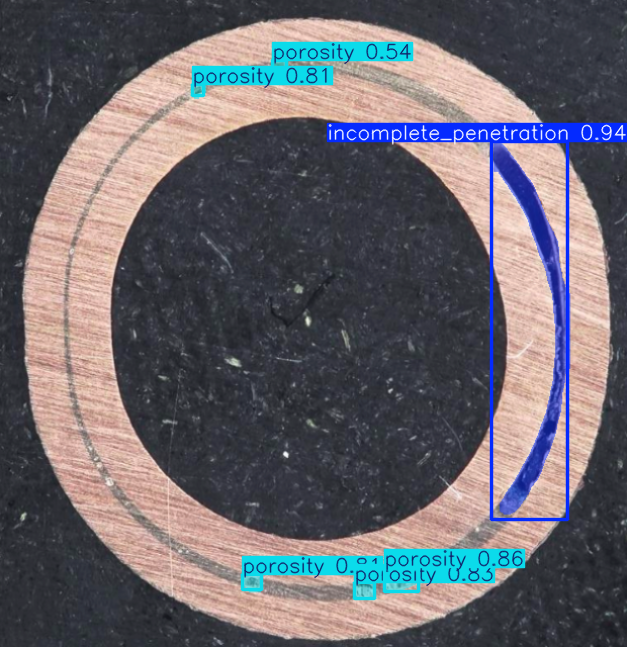
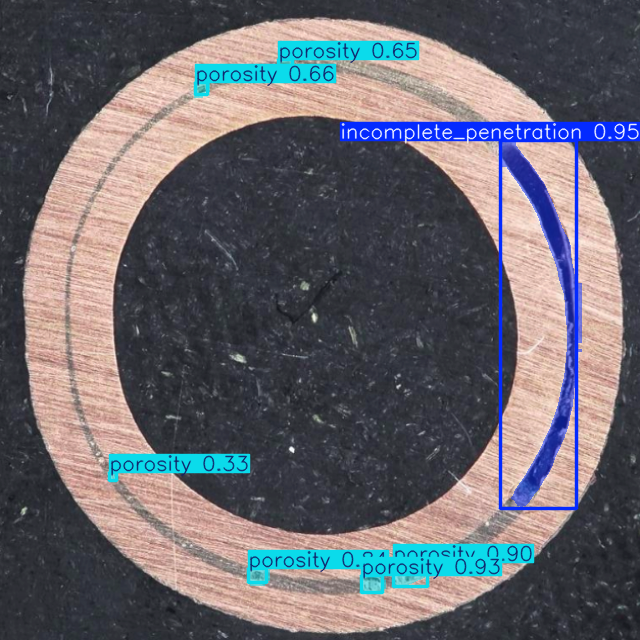
adjust image resoultion

diff --git a/defect_analyzer.py b/defect_analyzer.py
@@ -25,67 +25,152 @@ SUMMARY_CSV_PATH = os.path.join(OUTPUT_FOLDER_PATH, 'defect_summary.csv')
 # Example: If the 1000 µm bar is 500 pixels long, PIXELS_PER_MICRON = 500 / 1000 = 0.5
 PIXELS_PER_MICRON = 0.5 # <--- REPLACE WITH YOUR VALUE
 
+# --- IMAGE PROCESSING PARAMETERS (Configurable) ---
+# Parameters for Hough Circle Transform to find the pipes.
+# NOTE: These parameters might need adjustment if your original images vary significantly in size
+# or if resizing affects circle detection.
+HOUGH_DP = 1.5          # Inverse ratio of accumulator resolution.
+HOUGH_MIN_DIST = 400    # Minimum distance between the centers of detected circles.
+HOUGH_PARAM1 = 100      # Upper threshold for the internal Canny edge detector.
+HOUGH_PARAM2 = 80       # Threshold for center detection.
+HOUGH_MIN_RADIUS = 200  # Minimum circle radius to be detected.
+HOUGH_MAX_RADIUS = 600  # Maximum circle radius to be detected.
+
+# --- PREPROCESSING CONFIGURATION ---
+# Target dimensions for image preprocessing before feeding to the model.
+TARGET_IMAGE_DIM = (640, 640) # Width, Height
+
+# --- MODEL PREDICTION CONFIDENCE THRESHOLD ---
+# Only predictions with a confidence score above this threshold will be considered.
+CONFIDENCE_THRESHOLD = 0.20 # 25% confidence level
 
 def analyze_defects(model, image_path, pixels_per_micron):
     """
     Processes a single image to find defects, calculate metrics, and return structured data.
-    This version uses ONLY the YOLO model for classification.
+    This version includes image preprocessing (resizing to TARGET_IMAGE_DIM) before
+    model prediction and adjusts metric calculations to account for scaling.
+    Applies a confidence threshold to filter model predictions.
     """
+    img_bgr = cv2.imread(image_path)
+    if img_bgr is None:
+        print(f"Error: Could not load image from {image_path}")
+        return [], None
+
+    # Store original dimensions for later use (to scale metrics back)
+    original_height, original_width = img_bgr.shape[:2]
     image_id = os.path.basename(image_path)
 
-    try:
-        # Run YOLO inference
-        results = model(image_path, verbose=False)
-        single_result = results[0]
+    # --- Preprocess image for model prediction ---
+    # Resize the image to the target dimensions (640x640)
+    # Using INTER_AREA for downsampling, INTER_LINEAR or INTER_CUBIC for upsampling
+    resized_img_bgr = cv2.resize(img_bgr, TARGET_IMAGE_DIM, interpolation=cv2.INTER_AREA)
+
+    # Convert the resized image to grayscale for Hough Circle Transform
+    resized_img_gray = cv2.cvtColor(resized_img_bgr, cv2.COLOR_BGR2GRAY)
+
+    # --- Step 4: Nominal joint detection (using resized_img_gray) ---
+    # Apply a median blur to reduce noise for circle detection.
+    blurred_gray = cv2.medianBlur(resized_img_gray, 5)
+    circles = cv2.HoughCircles(
+        blurred_gray, cv2.HOUGH_GRADIENT,
+        dp=HOUGH_DP, minDist=HOUGH_MIN_DIST,
+        param1=HOUGH_PARAM1, param2=HOUGH_PARAM2,
+        minRadius=HOUGH_MIN_RADIUS, maxRadius=HOUGH_MAX_RADIUS
+    )
+
+    # Store circle data. Circles are detected in the resized image's coordinate system.
+    inner_circle, outer_circle = None, None
+    if circles is not None and len(circles[0]) >= 2:
+        # Sort circles by radius to identify inner and outer
+        sorted_circles = sorted(circles[0, :], key=lambda x: x[2])
+        inner_circle = sorted_circles[0]
+        outer_circle = sorted_circles[1]
+    
+    # Run YOLO inference on the PREPROCESSED (resized) image (NumPy array)
+    results = model(resized_img_bgr, verbose=False)
+    single_result = results[0]
+    
+    # Get the overlay image with color-coded contours from the model.
+    # This overlay image will be generated based on the 640x640 dimensions.
+    overlay_image = single_result.plot()
+
+    defect_data = []
+
+    # Check if there are any detected masks or boxes
+    if single_result.masks is None or single_result.boxes is None:
+        return [], overlay_image
+
+    # --- Defect Labelling and Metric Calculation ---
+    # Iterate through detections, filtering by confidence threshold
+    for i in range(len(single_result.masks)):
+        mask = single_result.masks[i]
+        box = single_result.boxes[i]
         
-        # Get the overlay image with color-coded contours from the model.
-        overlay_image = single_result.plot()
+        # Apply confidence threshold
+        if box.conf is not None and box.conf.item() < CONFIDENCE_THRESHOLD:
+            continue # Skip this detection if confidence is too low
 
-        defect_data = []
+        # Get YOLO's classification
+        yolo_class_name = single_result.names[int(box.cls)]
+        
+        # --- Calculate Metrics ---
+        # The mask data is already in the dimensions of the preprocessed image (640x640)
+        mask_data = mask.data[0].cpu().numpy().astype(np.uint8)
 
-        # Check if there are any detected masks
-        if single_result.masks is None:
-            return [], overlay_image
+        # Calculate Area (on the 640x640 mask)
+        area_pixels_resized = np.sum(mask_data)
+        
+        # Scale factor for area: (original_width/target_width) * (original_height/target_height)
+        width_scale_factor = float(original_width) / TARGET_IMAGE_DIM[0]
+        height_scale_factor = float(original_height) / TARGET_IMAGE_DIM[1]
+        
+        # Area in original image pixel scale
+        area_pixels_original_scale = area_pixels_resized * width_scale_factor * height_scale_factor
+        area_microns_sq = area_pixels_original_scale / (pixels_per_micron ** 2)
 
-        # --- Defect Labelling and Metric Calculation ---
-        for i in range(len(single_result.masks)):
-            mask = single_result.masks[i]
-            box = single_result.boxes[i]
+        # Calculate Aspect Ratio (AR) from fitted ellipse. AR is a ratio, so it's scale-invariant.
+        contours, _ = cv2.findContours(mask_data, cv2.RETR_EXTERNAL, cv2.CHAIN_APPROX_SIMPLE)
+        aspect_ratio = 1.0 # Default AR for small/non-fittable contours
+        if contours and len(contours[0]) >= 5: # Need at least 5 points to fit an ellipse
+            ellipse = cv2.fitEllipse(contours[0])
+            (w, h) = ellipse[1]
+            aspect_ratio = max(w, h) / min(w,h) if min(w,h) > 0 else 1.0
+
+        # Centroid and Distance from circles
+        # Centroid is in the resized image's coordinate system
+        dist_from_inner_microns = -1.0
+        if contours:
+            M = cv2.moments(contours[0])
+            if M["m00"] > 0:
+                cX_resized = int(M["m10"] / M["m00"])
+                cY_resized = int(M["m01"] / M["m00"])
+                centroid_resized = (cX_resized, cY_resized)
+
+                # Calculate distance to inner circle if found (both are in resized scale)
+                if inner_circle is not None:
+                    circle_center_resized = (int(inner_circle[0]), int(inner_circle[1]))
+                    # Distance is from centroid to the circle's perimeter in resized pixels
+                    dist_pixels_resized = abs(np.linalg.norm(np.array(centroid_resized) - np.array(circle_center_resized)) - inner_circle[2])
+                    
+                    # Scale this distance back to original image pixel scale
+                    # Use an average scale factor for distance to account for potential non-uniform scaling
+                    avg_scale_factor = (width_scale_factor + height_scale_factor) / 2
+                    dist_pixels_original_scale = dist_pixels_resized * avg_scale_factor
+
+                    dist_from_inner_microns = dist_pixels_original_scale / pixels_per_micron
+
+        # --- CSV row for every defect ---
+        defect_data.append({
+            "Image ID": image_id,
+            "Defect Area (µm²)": round(area_microns_sq, 2),
+            "Aspect Ratio (AR)": round(aspect_ratio, 2),
+            "Distance from Inner Circle (µm)": round(dist_from_inner_microns, 2),
+            "Defect Classification": yolo_class_name,
+            "Confidence": round(box.conf.item(), 4) # Add confidence to the output
+        })
             
-            # Get YOLO's classification
-            yolo_class_name = single_result.names[int(box.cls)]
-            
-            # --- Calculate Metrics ---
-            mask_data = mask.data[0].cpu().numpy().astype(np.uint8)
+    return defect_data, overlay_image
 
-            # Calculate Area 
-            area_pixels = np.sum(mask_data)
-            area_microns_sq = area_pixels / (pixels_per_micron ** 2)
-
-            # Calculate Aspect Ratio (AR) from fitted ellipse 
-            contours, _ = cv2.findContours(mask_data, cv2.RETR_EXTERNAL, cv2.CHAIN_APPROX_SIMPLE)
-            aspect_ratio = 1.0 # Default AR for small/non-fittable contours
-            if contours and len(contours[0]) >= 5: # Need at least 5 points to fit an ellipse
-                ellipse = cv2.fitEllipse(contours[0])
-                (w, h) = ellipse[1]
-                aspect_ratio = max(w, h) / min(w, h) if min(w,h) > 0 else 1.0
-
-            # --- CSV row for every defect  ---
-            # This dictionary now contains the simplified data.
-            defect_data.append({
-                "Image ID": image_id,
-                "Defect Area (µm²)": round(area_microns_sq, 2),
-                "Aspect Ratio (AR)": round(aspect_ratio, 2),
-                "Defect Classification": yolo_class_name,
-            })
-            
-        return defect_data, overlay_image
-    except Exception as e:
-        print(f"Error processing image {image_id}: {e}")
-        # Return empty data and a dummy image if an error occurs
-        # A black image or original image can be returned if desired, for now, a blank numpy array
-        dummy_image = np.zeros((100, 100, 3), dtype=np.uint8) 
-        return [], dummy_image
 
 def update_summary_csv(new_defects_df):
     """
@@ -116,6 +201,7 @@ def update_summary_csv(new_defects_df):
     # Prepare file header with summary data 
     report_header = "# Defect Summary Report\n"
     report_header += f"# Last Updated: {pd.Timestamp.now().strftime('%Y-%m-%d %H:%M:%S')}\n"
+    report_header += f"# Minimum Prediction Confidence Threshold: {CONFIDENCE_THRESHOLD * 100:.0f}%\n" # Add threshold
     report_header += "# Total Defects Found Across All Processed Images: {}\n".format(len(all_data_df))
     report_header += "# --- Totals per Classification (All Images) ---\n"
     for _, row in summary_stats.iterrows():
@@ -137,9 +223,9 @@ def update_summary_csv(new_defects_df):
 
 def main():
     """
-    Main function to run the simplified defect analysis pipeline with skipping and incremental updates.
+    Main function to run the defect analysis pipeline.
     """
-    # Create output directory if it doesn't exist
+    # Create output directory if it doesn't exist 
     os.makedirs(OUTPUT_FOLDER_PATH, exist_ok=True)
 
     # Load the trained YOLO model
@@ -148,7 +234,7 @@ def main():
         return
     model = YOLO(MODEL_PATH)
 
-    # Find all images in the input folder
+    # Find all images in the input folder 
     image_paths = glob.glob(os.path.join(IMAGE_FOLDER_PATH, '*.png')) + \
                   glob.glob(os.path.join(IMAGE_FOLDER_PATH, '*.jpg'))
 
@@ -165,6 +251,7 @@ def main():
         individual_csv_path = os.path.join(OUTPUT_FOLDER_PATH, f"{base_filename}_defects.csv")
 
         # Skip already processed images
+        # The logic was slightly adjusted to ensure consistency with the new preprocessing step.
         if os.path.exists(output_image_path) and os.path.exists(individual_csv_path):
             print(f"Skipping {os.path.basename(image_path)}: Already processed.")
             continue
@@ -180,10 +267,20 @@ def main():
             
             # Generate Output per image in an independent .csv
             individual_df = pd.DataFrame(defects)
-            individual_df.to_csv(individual_csv_path, index=False)
+            
+            # Prepare header for individual CSV (optional but good for clarity)
+            individual_header = f"# Defect Report for Image: {os.path.basename(image_path)}\n"
+            individual_header += f"# Total Defects Found in this Image: {len(individual_df)}\n"
+            individual_header += f"# Minimum Prediction Confidence Threshold: {CONFIDENCE_THRESHOLD * 100:.0f}%\n"
+            individual_header += "#\n"
+
+            with open(individual_csv_path, 'w') as f:
+                f.write(individual_header)
+            individual_df.to_csv(individual_csv_path, mode='a', index=False)
             print(f"  -> Individual defect report saved to: {individual_csv_path}")
 
         # Save the overlay image to the processed_images/ folder 
+        # The overlay image is already generated at the 640x640 scale, so save it directly.
         cv2.imwrite(output_image_path, overlay)
         print(f"  -> Processed image saved to: {output_image_path}")
     
@@ -199,4 +296,3 @@ def main():
 
 if __name__ == '__main__':
     main()
-
